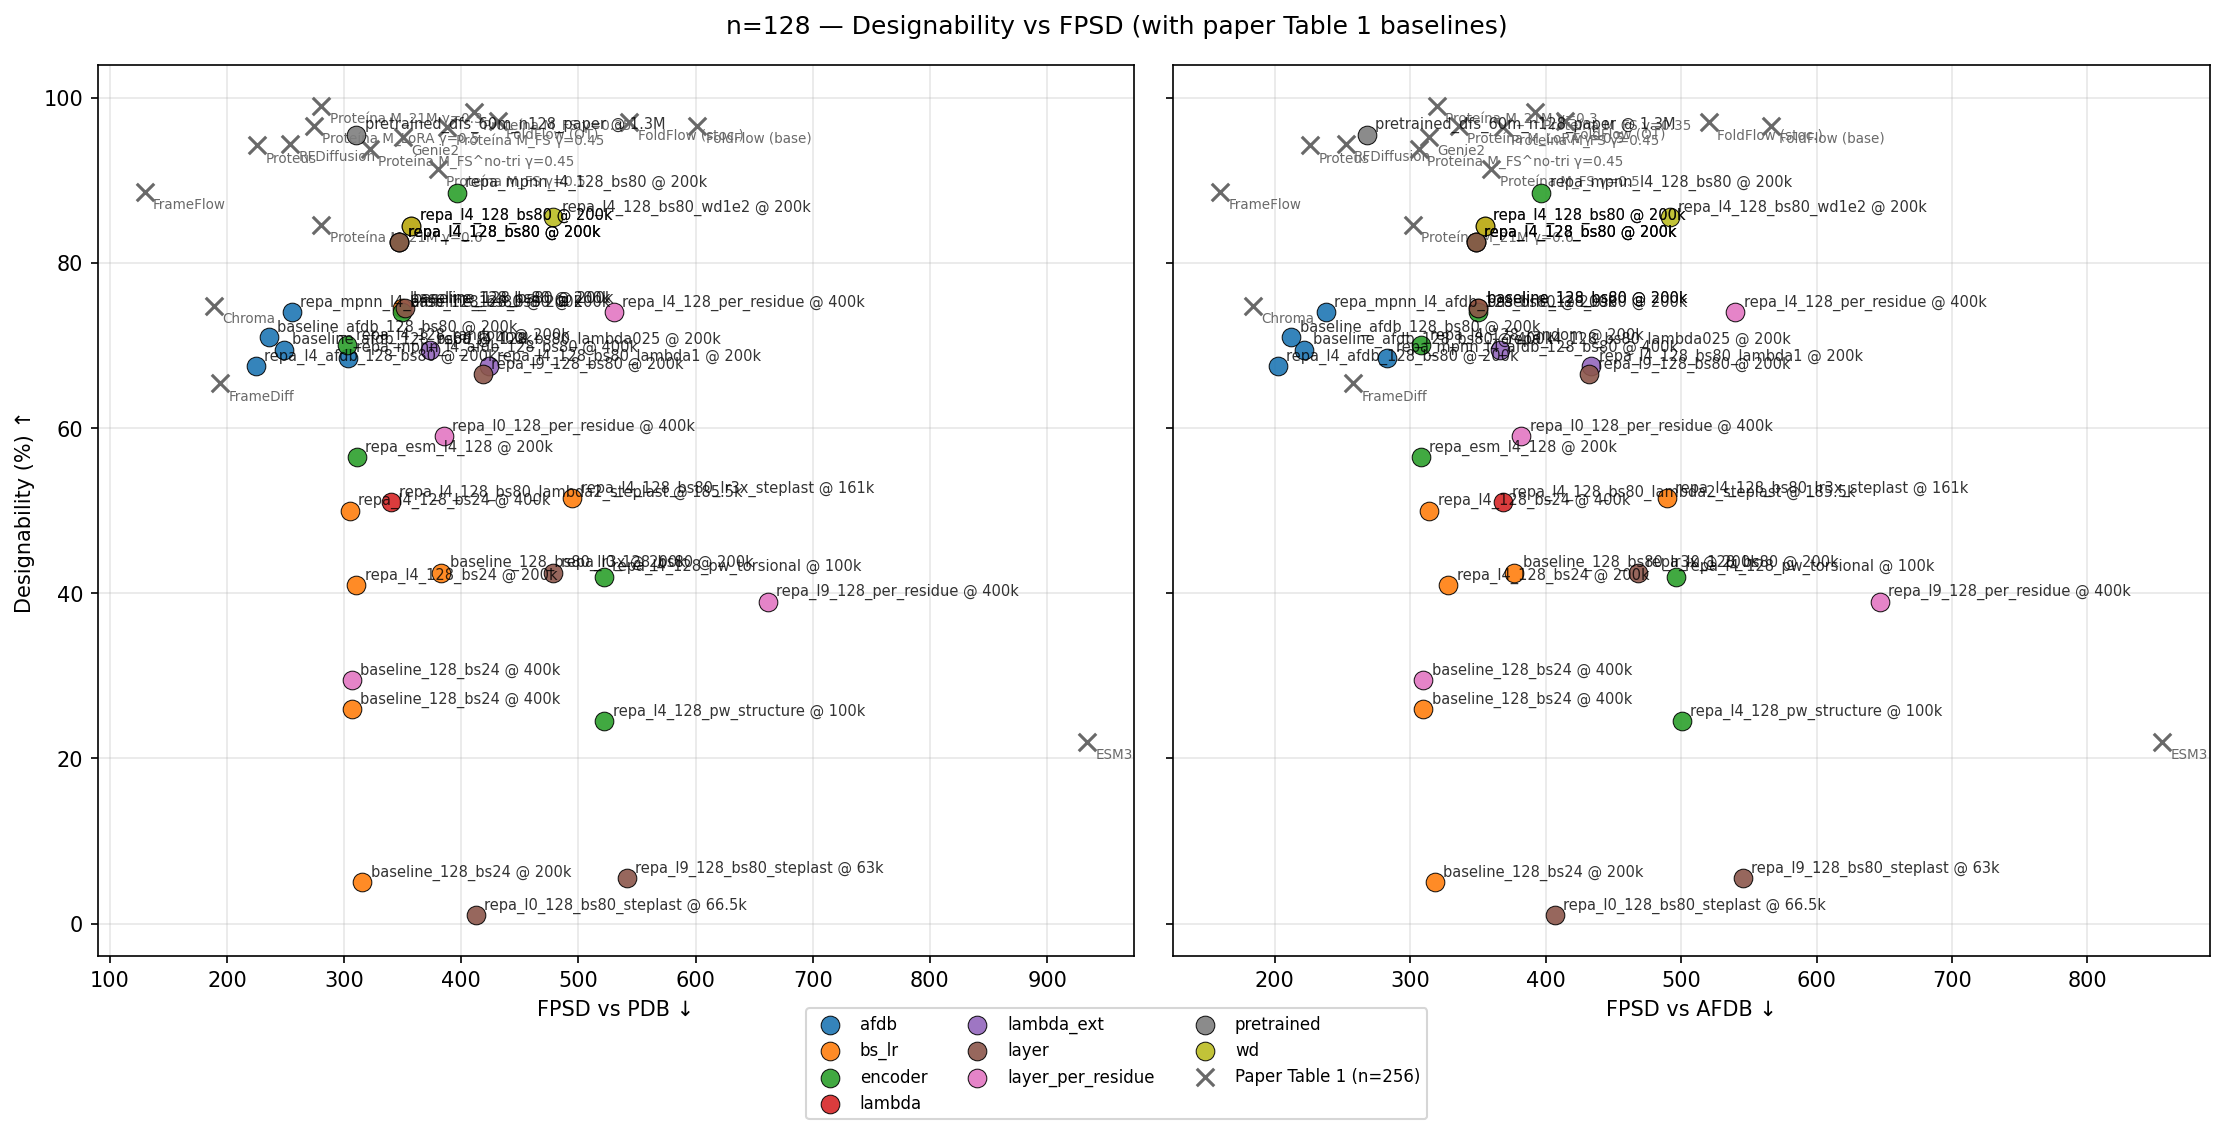
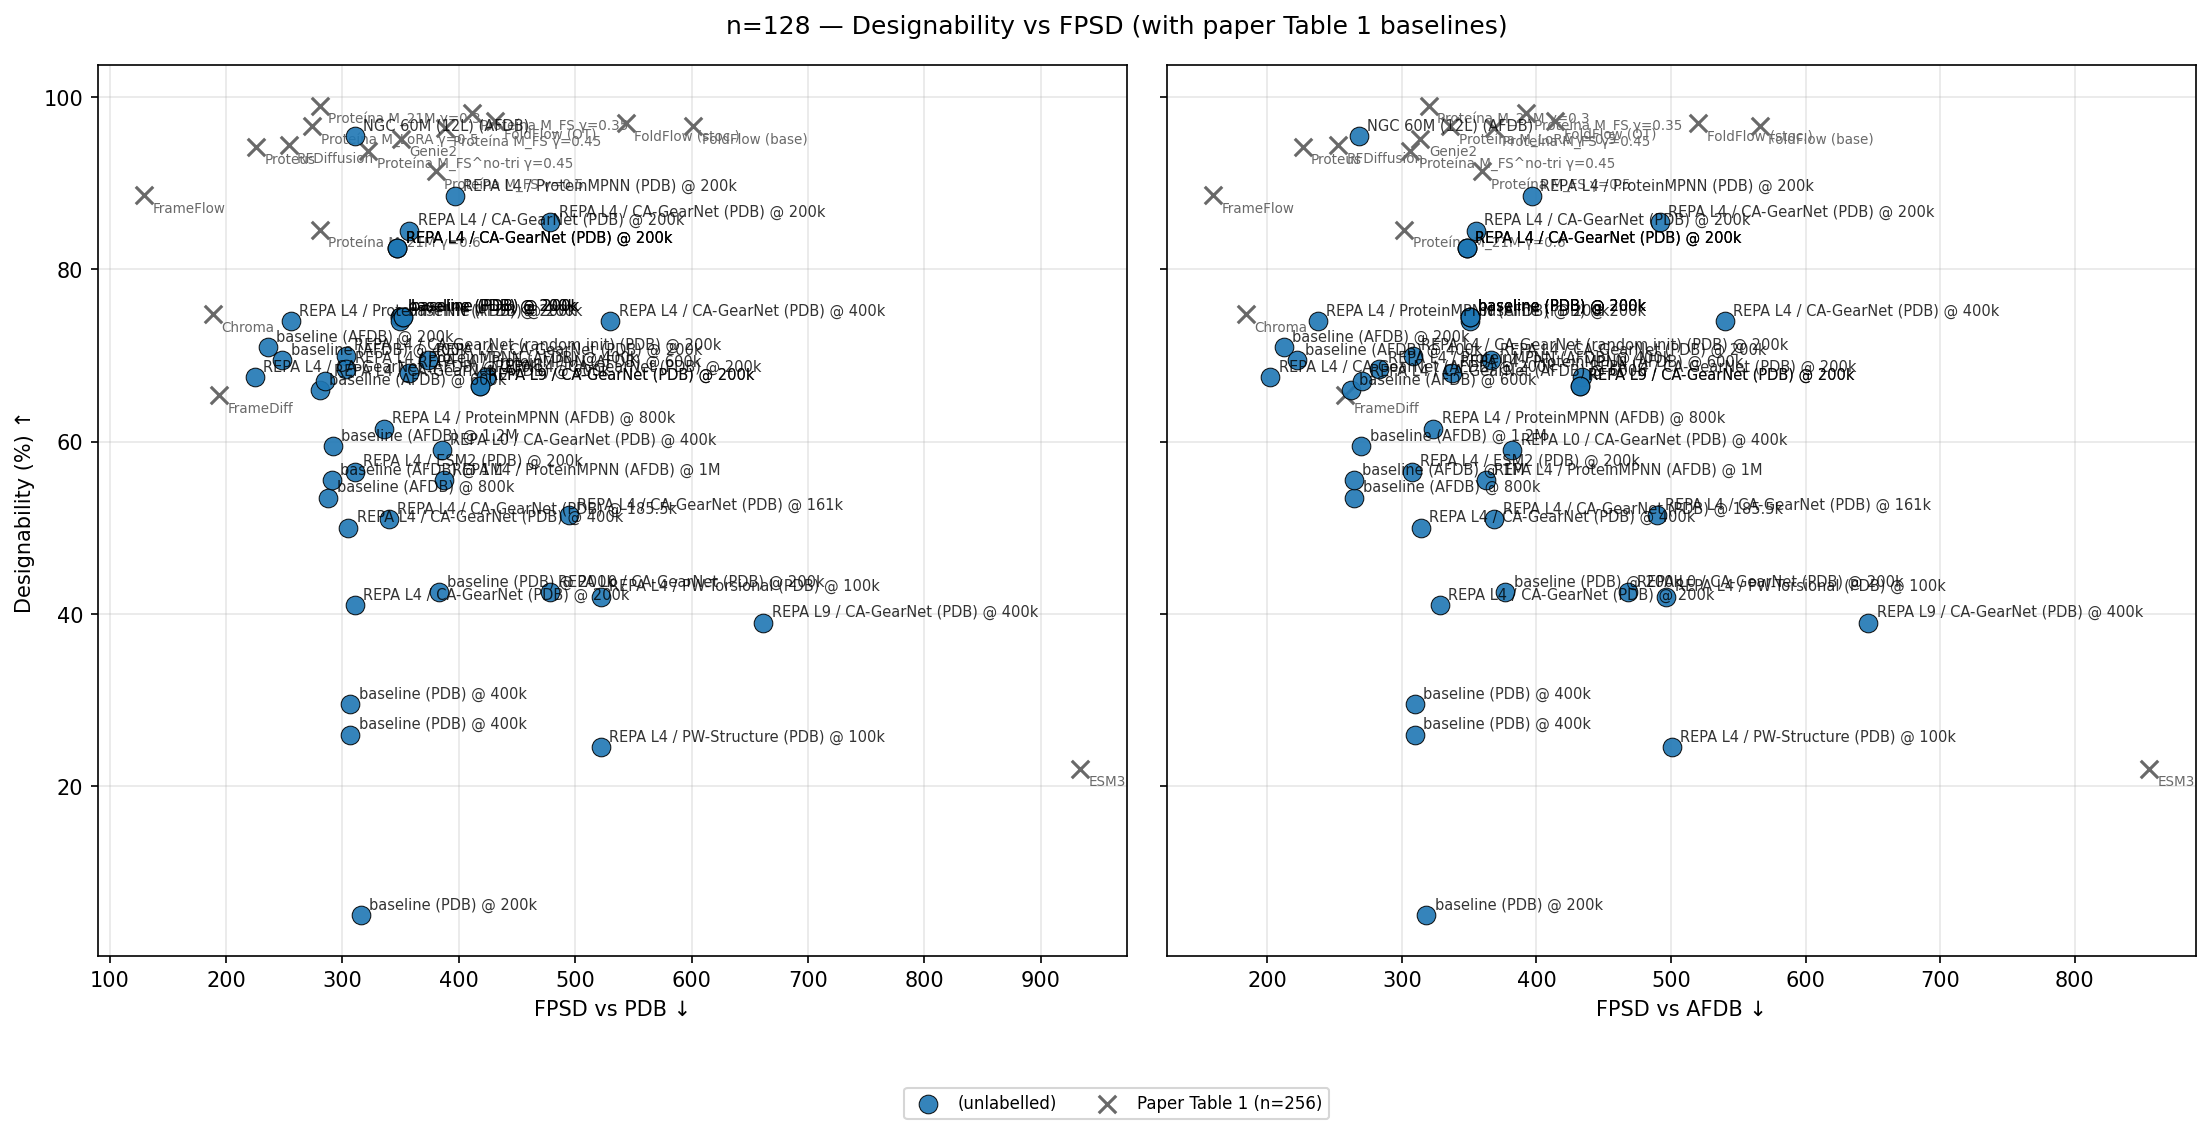
generation/paper plots: shared-metadata title suffix + legend deltas; regen figures
- plot_n128_paper / plot_n256_paper: append compose_title_suffix() output to
  each row's y-axis label so block-level constants (encoder, dataset, etc.)
  surface in the title instead of being repeated per bar.
- plot_des_vs_fpsd / plot_mode_collapse: use block_label_plan + compose_legend_label
  so legend entries only carry the fields that vary across runs in the block.
- Regen n128/n256 paper sweep, des_vs_fpsd, mode_collapse figures, with new
  ablation-column TSV/MD .bak snapshots.

diff --git a/evaluation/proteina/generation/scripts/paper/plot_mode_collapse.py b/evaluation/proteina/generation/scripts/paper/plot_mode_collapse.py
@@ -33,7 +33,10 @@ from matplotlib.cm import ScalarMappable
 from matplotlib.colors import Normalize
 from matplotlib.patches import Patch
 
-from evaluation.proteina.lib.plot_labels import pretty_run_label
+from evaluation.proteina.lib.plot_labels import (
+    block_label_plan,
+    compose_legend_label,
+)
 
 ROOT = Path(__file__).resolve().parents[2]  # .../proteina/generation
 FIG_ROOT = ROOT / "figures/paper"
@@ -81,6 +84,12 @@ def to_float(x):
 
 
 def collect(rows: list[dict]) -> list[dict]:
+    # Compute the metadata fields that vary across this run set so the legend
+    # only carries deltas (model/encoder/dataset annotated per-run when they
+    # differ between rows). Falls back to pretty_run_label for runs without a
+    # RUN_META entry.
+    all_runs = [row["run"] for row in rows]
+    _, varying = block_label_plan(all_runs)
     pts = []
     for row in rows:
         des = to_float(row.get(DES_COL, ""))
@@ -104,8 +113,11 @@ def collect(rows: list[dict]) -> list[dict]:
             {
                 "run": row["run"],
                 "step": step,
-                "label": pretty_run_label(
-                    row["run"], step=step, allow_missing_step=True
+                "label": compose_legend_label(
+                    row["run"],
+                    step=step,
+                    varying_fields=varying,
+                    fallback_display=row["run"],
                 ),
                 "des_pct": des * 100.0,
                 "fs_t": fs_t,

diff --git a/evaluation/proteina/generation/scripts/paper/plot_des_vs_fpsd.py b/evaluation/proteina/generation/scripts/paper/plot_des_vs_fpsd.py
@@ -18,7 +18,10 @@ from pathlib import Path
 
 import matplotlib.pyplot as plt
 
-from evaluation.proteina.lib.plot_labels import pretty_run_label
+from evaluation.proteina.lib.plot_labels import (
+    block_label_plan,
+    compose_legend_label,
+)
 
 ROOT = Path(__file__).resolve().parents[2]  # .../proteina/generation
 FIG_ROOT = ROOT / "figures/paper"
@@ -88,6 +91,8 @@ def short_profile(label: str) -> str:
 
 
 def collect(rows: list[dict]) -> list[dict]:
+    all_runs = [row["run"] for row in rows]
+    _, varying = block_label_plan(all_runs)
     pts = []
     for row in rows:
         des_frac = to_float(row.get(DES_COL, ""))
@@ -106,8 +111,11 @@ def collect(rows: list[dict]) -> list[dict]:
             {
                 "run": row["run"],
                 "step": step,
-                "label": pretty_run_label(
-                    row["run"], step=step, allow_missing_step=True
+                "label": compose_legend_label(
+                    row["run"],
+                    step=step,
+                    varying_fields=varying,
+                    fallback_display=row["run"],
                 ),
                 "block": short_profile(row.get("profile", "(unlabelled)")),
                 "des_pct": des_frac * 100.0,

diff --git a/evaluation/proteina/generation/scripts/paper/n128_paper/plot_n128_paper.py b/evaluation/proteina/generation/scripts/paper/n128_paper/plot_n128_paper.py
@@ -41,6 +41,8 @@ sys.path.insert(0, str(SCRIPTS_DIR))
 
 from utils._results_io import load_sweep_rows  # noqa: E402
 
+from evaluation.proteina.lib.plot_labels import compose_title_suffix  # noqa: E402
+
 RESULTS_ROOT = GENERATION_ROOT / "results" / "paper"
 FIGURES_DIR = GENERATION_ROOT / "figures" / "paper" / "n128_paper"
 
@@ -367,7 +369,11 @@ def plot() -> None:
                 )
 
             if acol == 0:
-                ax.set_ylabel(acfg["label"], fontsize=9, fontweight="bold")
+                # Append shared-metadata suffix (e.g. " (CA-GearNet, PDB)") to
+                # the row title so the reader sees the block-level training
+                # config without it being repeated in every bar label.
+                suffix = compose_title_suffix([run_name for run_name, _, _ in runs])
+                ax.set_ylabel(f"{acfg['label']}{suffix}", fontsize=9, fontweight="bold")
 
     # Legend: one patch per unique (label, color) across all ablations
     seen: set[tuple[str, str]] = set()

diff --git a/evaluation/proteina/generation/scripts/paper/n256_paper/plot_n256_paper.py b/evaluation/proteina/generation/scripts/paper/n256_paper/plot_n256_paper.py
@@ -37,6 +37,8 @@ sys.path.insert(0, str(SCRIPTS_DIR))
 
 from utils._results_io import load_sweep_rows  # noqa: E402
 
+from evaluation.proteina.lib.plot_labels import compose_title_suffix  # noqa: E402
+
 RESULTS_ROOT = GENERATION_ROOT / "results" / "paper"
 FIGURES_DIR = GENERATION_ROOT / "figures" / "paper" / "n256_paper"
 
@@ -413,7 +415,10 @@ def plot() -> None:
                 )
 
             if pcol == 0:
-                ax.set_ylabel(pcfg["label"], fontsize=9, fontweight="bold")
+                suffix = compose_title_suffix(
+                    [run_name for run_name, _, _, _, _ in runs]
+                )
+                ax.set_ylabel(f"{pcfg['label']}{suffix}", fontsize=9, fontweight="bold")
 
     # Legend: one patch per unique (label, color) across all profiles
     seen: set[tuple[str, str]] = set()
